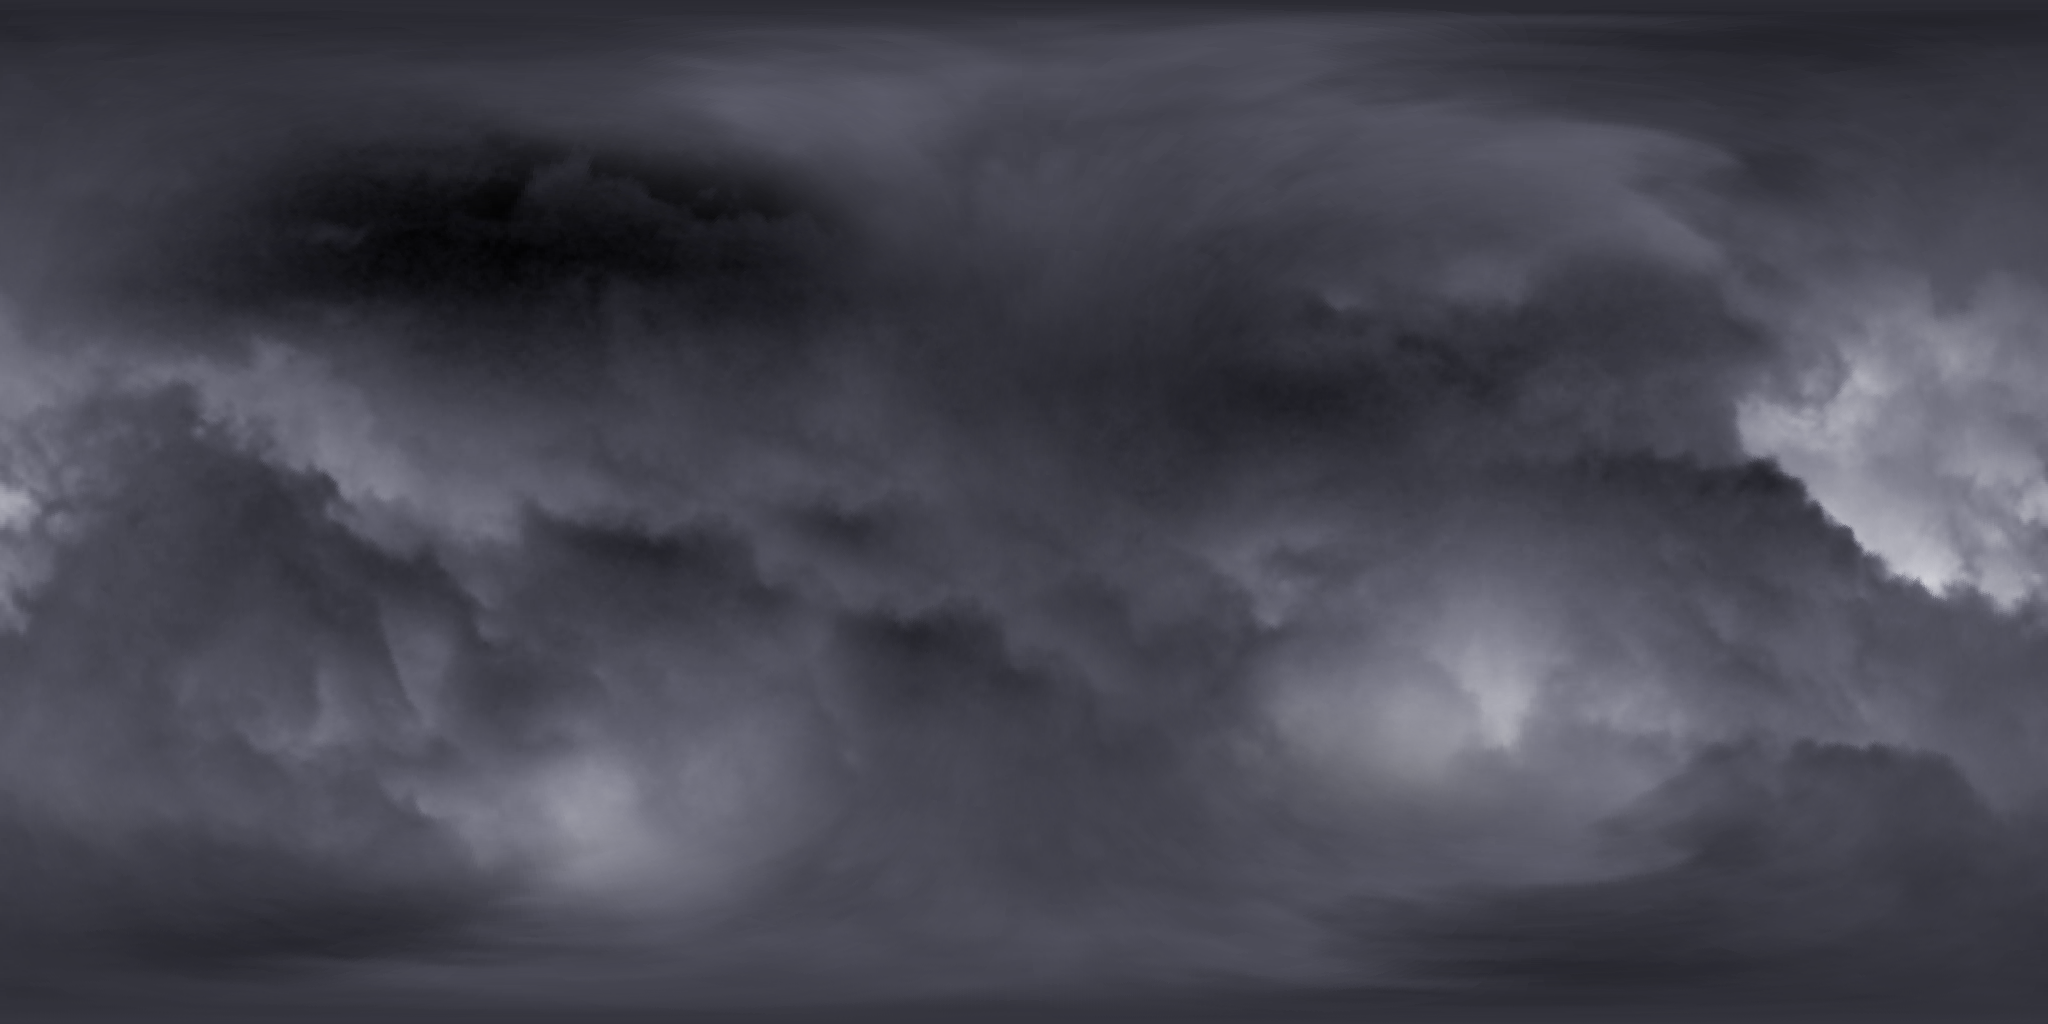
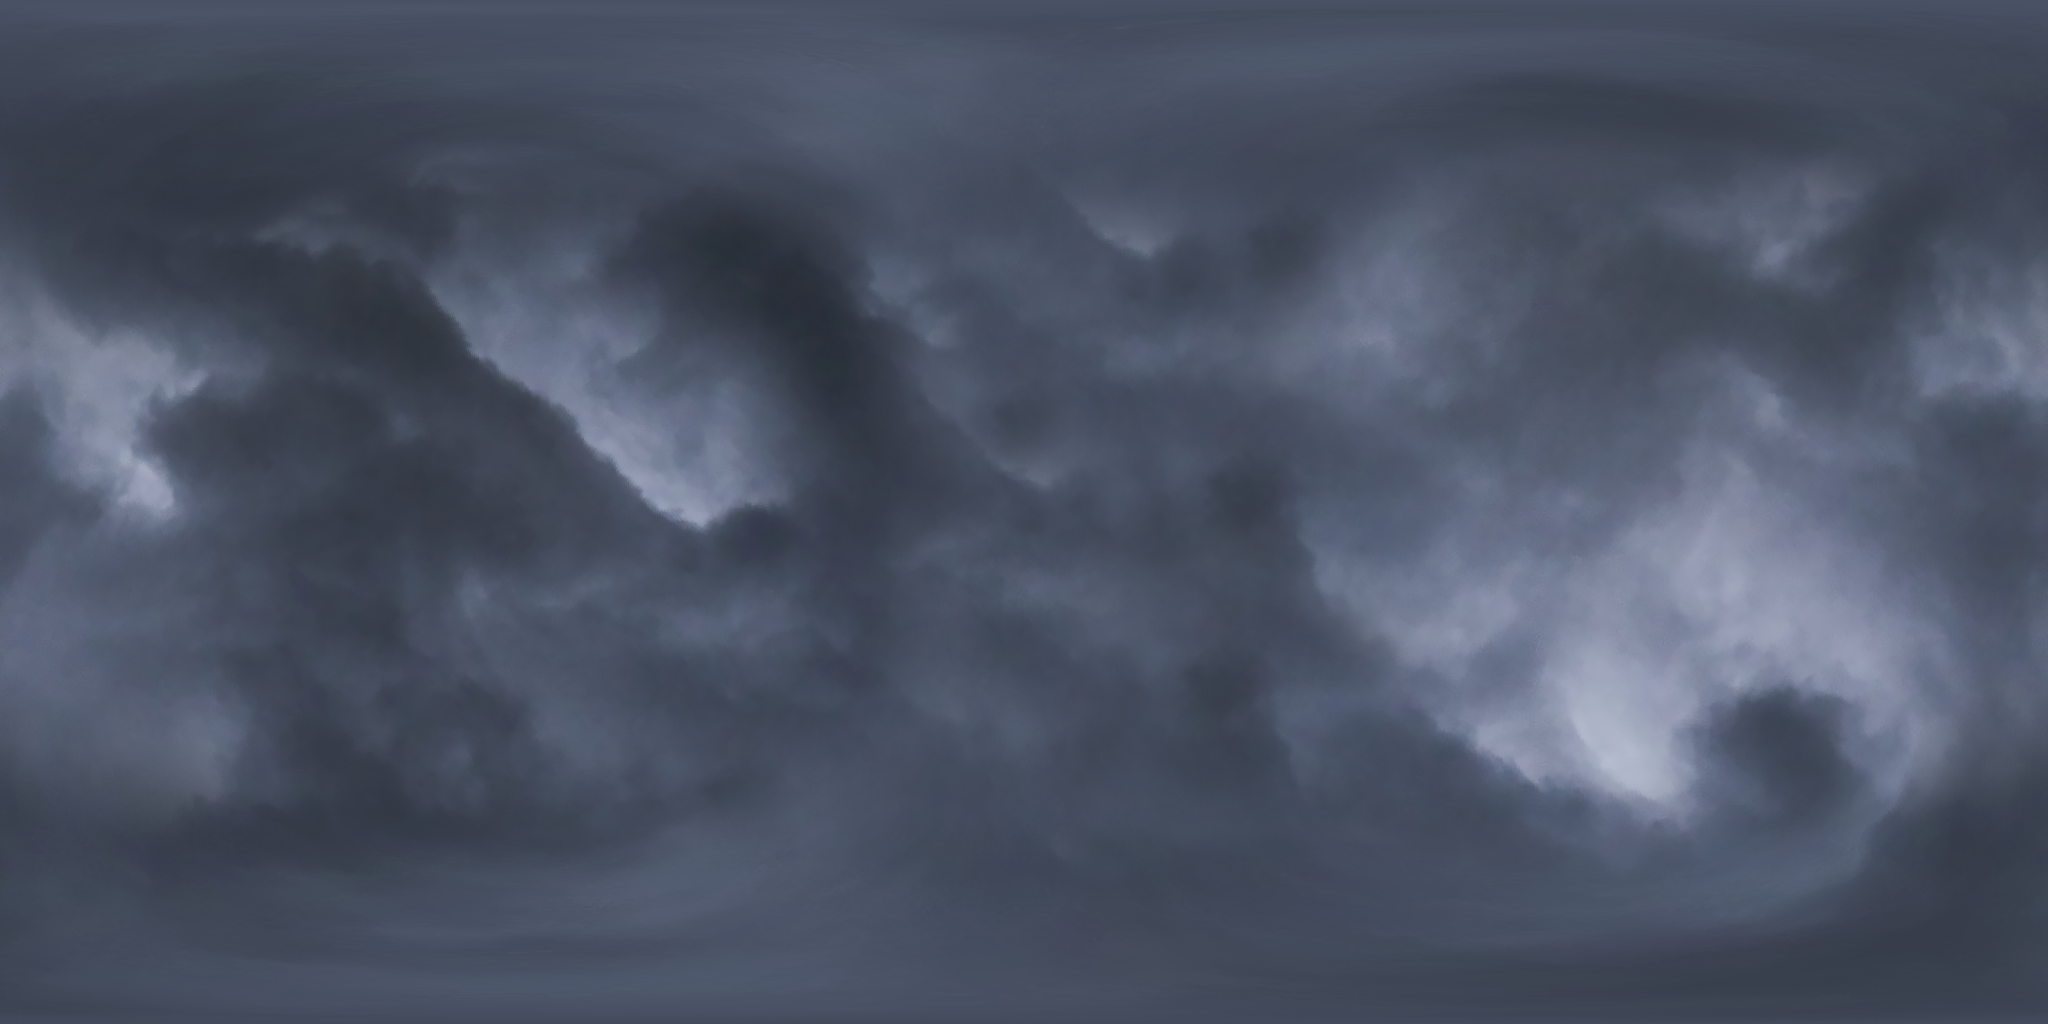
replaced copyright-problematic valleys_clouds

diff --git a/README.md b/README.md
@@ -1,5 +1,5 @@
 # Planet Medley
-### By Small Bug
+## By Small Bug
 
 ![Warm Beaches](https://user-images.githubusercontent.com/43260601/150666418-c3f2137f-7bb4-40e5-bb74-c70f6361d768.png)
 
@@ -10,3 +10,7 @@
 ![2](https://user-images.githubusercontent.com/43260601/150704280-18a60099-eac7-4e6c-af5a-908f72dcccc0.png)
 ![4](https://user-images.githubusercontent.com/43260601/150704286-b8e50d53-4123-41e8-9142-97080bc88bf9.png)
 ![8](https://user-images.githubusercontent.com/43260601/150704308-0bd79e40-abb6-4d64-8d49-e469b5d7604e.png)
+
+### Sources
+Rainy Valley clouds texturemap by Raychel Sanner  
+[https://unsplash.com/photos/MnnXMvs4cQo](https://unsplash.com/photos/MnnXMvs4cQo)
